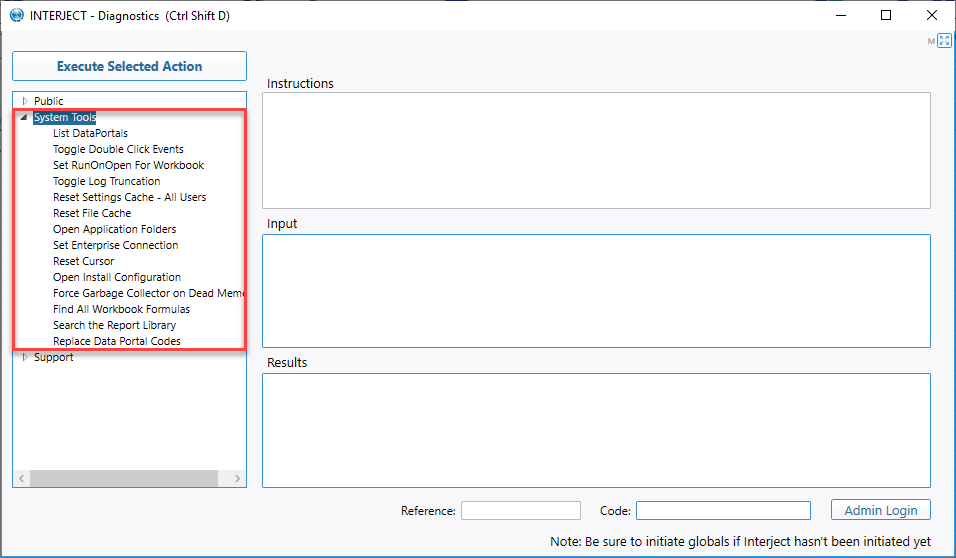
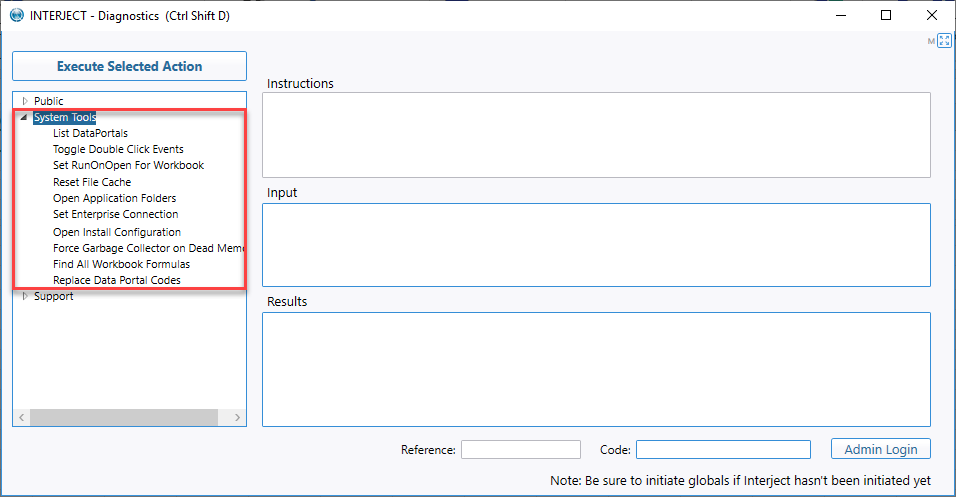
Updated diagnostics page, removed unused references

diff --git a/wIndex/Diagnostics.md b/wIndex/Diagnostics.md
@@ -49,7 +49,7 @@ The Public tools involves Logging, Cache, and Bug Fixes.
 | Setting | Description |
 |----|----|
 | [Clear External Login Cookies](/wAbout/Logging-In-Enterprise.html#clearing-login-cookies) | Click Execute to clear external login cookies. This will delete any saved form data in the login window as well.<br><br>If you log in with an external auth provider you may be offered an option to remember your login. This may create a security risk in some cases. You can use this feature to clear the data stored for your login so other users can not log in with your cached auth cookie.|
-| [Toggle Verbose Logging](/wTroubleshoot/Verbose-Logging.html) | Click Execute Selected Action to toggle Verbose Logging. This adds very detailed logs on hundreds of application events for detailed analysis by support folks. |
+| [Toggle Verbose Logging](/wTroubleshoot/Verbose-Logging.html) | Click Execute Selected Action to toggle Verbose Logging. This adds very detailed logs on hundreds of application events for detailed analysis by support teams. |
 | [Toggle Memory Logging](/wTroubleshoot/RAM-Monitoring.html) | Click Execute Selected Action to toggle the Memory Logging. When running it will update the Status Bar in Excel with current memory usage every 3 seconds and log to diagnostics.<br><br>No input required. You may change the default 3000 millisecond delay by replacing this text with the number of milliseconds required. The setting must be between 1000 and 30000 milliseconds. |
 | [Toggle DataCell Audit Mode](/wTroubleshoot/Validation-Report.html#data-cell-functions) | Click 'Execute Selected Action' to Enable or Disable the Formula Auditing Mode for DataCell calculations. This will provide you exact cell address data for errors noted when you re-run the reports. |
 | [Reset Settings Cache](/wIndex/SettingsCache.html#resetting-settings-and-cache) | This will reset the user setting cache so the system will be forced to repull from the central database. |
